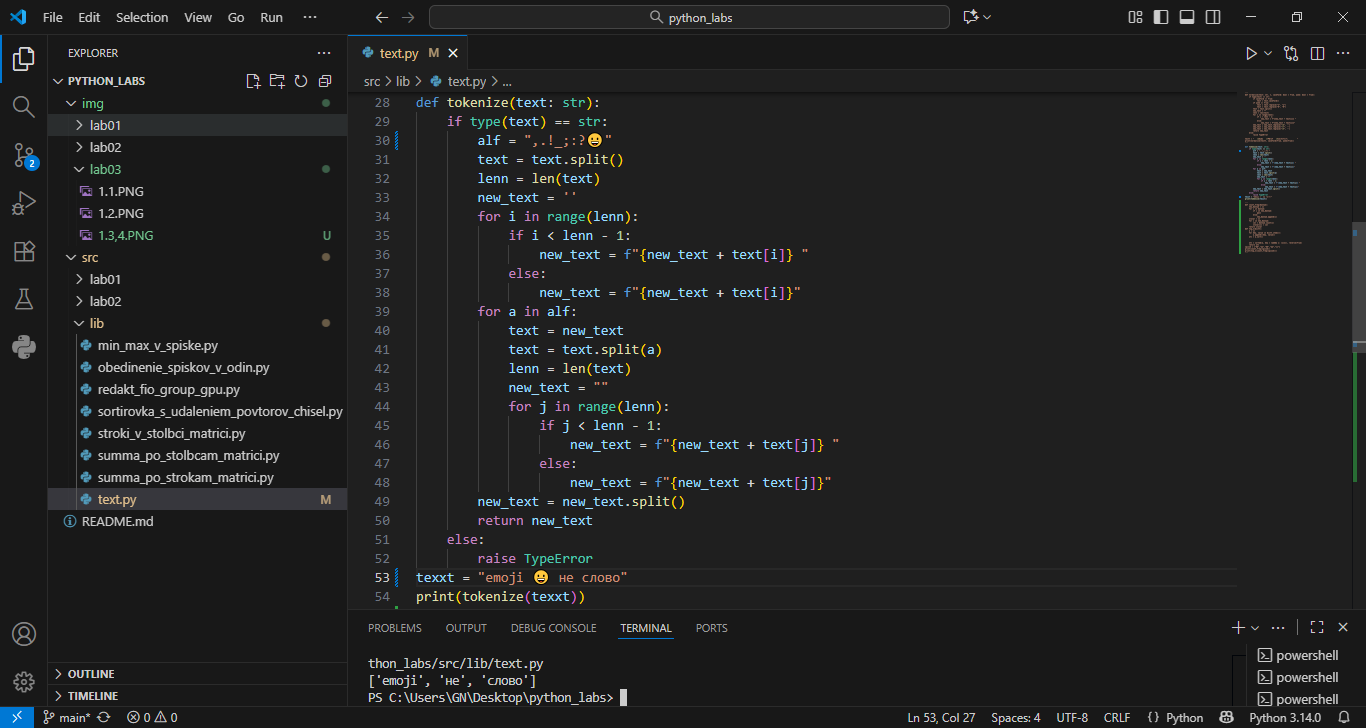
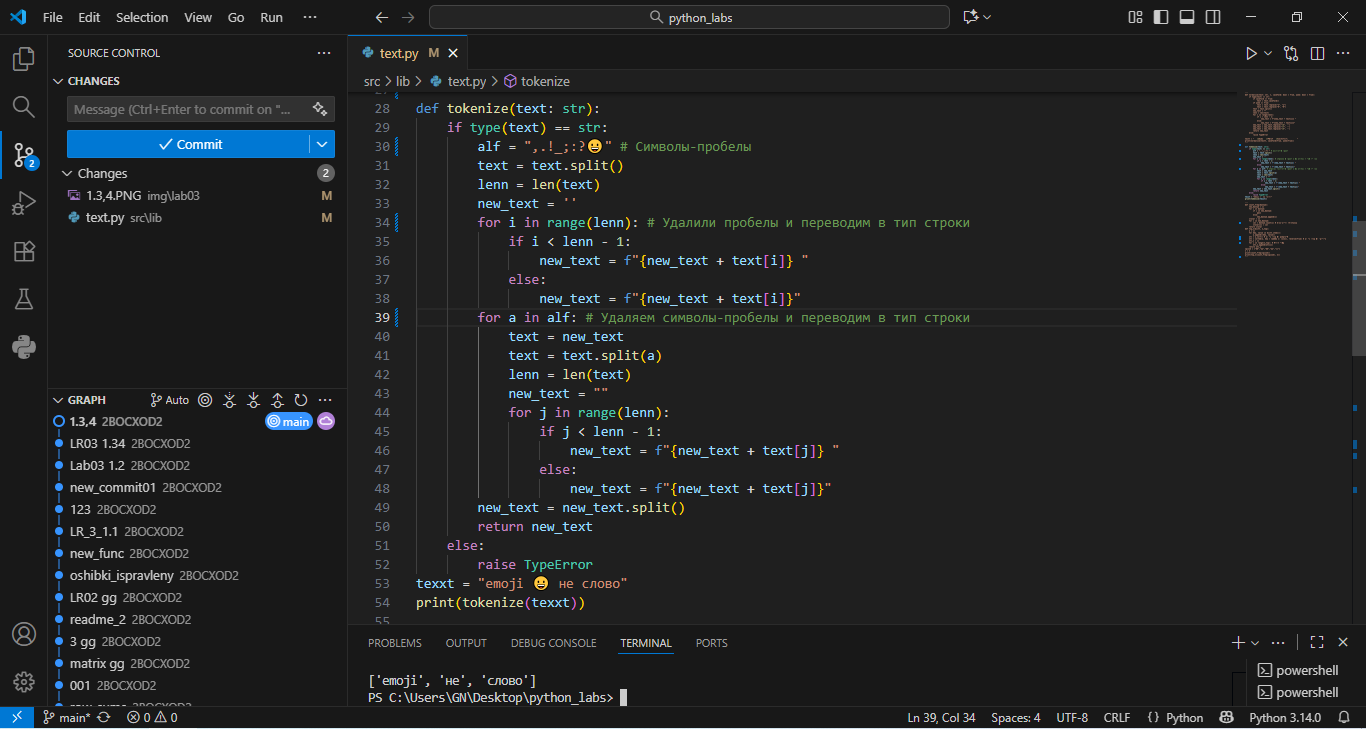
1234

diff --git a/src/lib/text.py b/src/lib/text.py
@@ -1,20 +1,20 @@
-'''
+
 def normalize(text: str, *, casefold: bool = True, yo2e: bool = True):
     if type(text) == str:
-        if casefold == True:
+        if casefold == True: # Если включено, делает все буквы строчными
             text = text.casefold()
-        if yo2e == True:
+        if yo2e == True: # Если включено, делает все Ё/ё буквами Е/е
             text = text.replace("ё", "е")
             text = text.replace("Ё", "Е")
-        text = text.split()
+        text = text.split() # Убирает лишние пробелы
         new_text = ""
         lenn = len(text)
-        for i in range(lenn):
+        for i in range(lenn): # Превращает список назад в строку
             if i < lenn - 1:
                 new_text = f"{new_text + text[i]} "
             else:
                 new_text = f"{new_text + text[i]}"
-        new_text = new_text.replace("\n", '')
+        new_text = new_text.replace("\n", '') # Удаляет все лишние символы
         new_text = new_text.replace("\r", '')
         new_text = new_text.replace("\t", '')
         return new_text
@@ -24,19 +24,19 @@ def normalize(text: str, *, casefold: bool = True, yo2e: bool = True):
 textt = "   \nЕеЁё   \rАБвгД   \t12(%№?*)?;         "
 print(normalize(textt, casefold=True, yo2e=True))
 '''
-'''
+
 def tokenize(text: str):
     if type(text) == str:
-        alf = ",.!_;:?😀"
+        alf = ",.!_;:?😀" # Символы-пробелы
         text = text.split()
         lenn = len(text)
         new_text = ''
-        for i in range(lenn):
+        for i in range(lenn): # Удалили пробелы и переводим в тип строки
             if i < lenn - 1:
                 new_text = f"{new_text + text[i]} "
             else:
                 new_text = f"{new_text + text[i]}"
-        for a in alf:
+        for a in alf: # Удаляем символы-пробелы и переводим в тип строки
             text = new_text
             text = text.split(a)
             lenn = len(text)
@@ -52,7 +52,7 @@ def tokenize(text: str):
         raise TypeError
 texxt = "emoji 😀 не слово"
 print(tokenize(texxt))
-
+'''
 '''
 def count_freq(dannye):
     new_dannye = []
@@ -63,20 +63,21 @@ def count_freq(dannye):
             new_dannye.append(i)
     slovar = {}
     for z in new_dannye:
-        col = dannye.count(z)
+        col = dannye.count(z) # Количество вхождений
         slovar[z] = col
     return slovar
 def top_n(dictt, n_top):
     a = []
     for key, value in dictt.items():
         a.append((key, value))
-    otv = a.sort()
-    otv = sorted(a, key = lambda x: (x[1]), reverse=True)
+    otv = a.sort() # Сортировка по алфавиту
+    otv = sorted(a, key = lambda x: (x[1]), reverse=True) # Сортировка по частоте
     otv_1 = []
-    for i in range(n_top):
+    for i in range(n_top): # Вывод топа
         otv_1.append(otv[i])
     return otv_1
 spisok = ["bb","aa","bb","aa","cc"]
 n = 2
 print(count_freq(spisok))
 print(top_n(count_freq(spisok), n))
+'''
